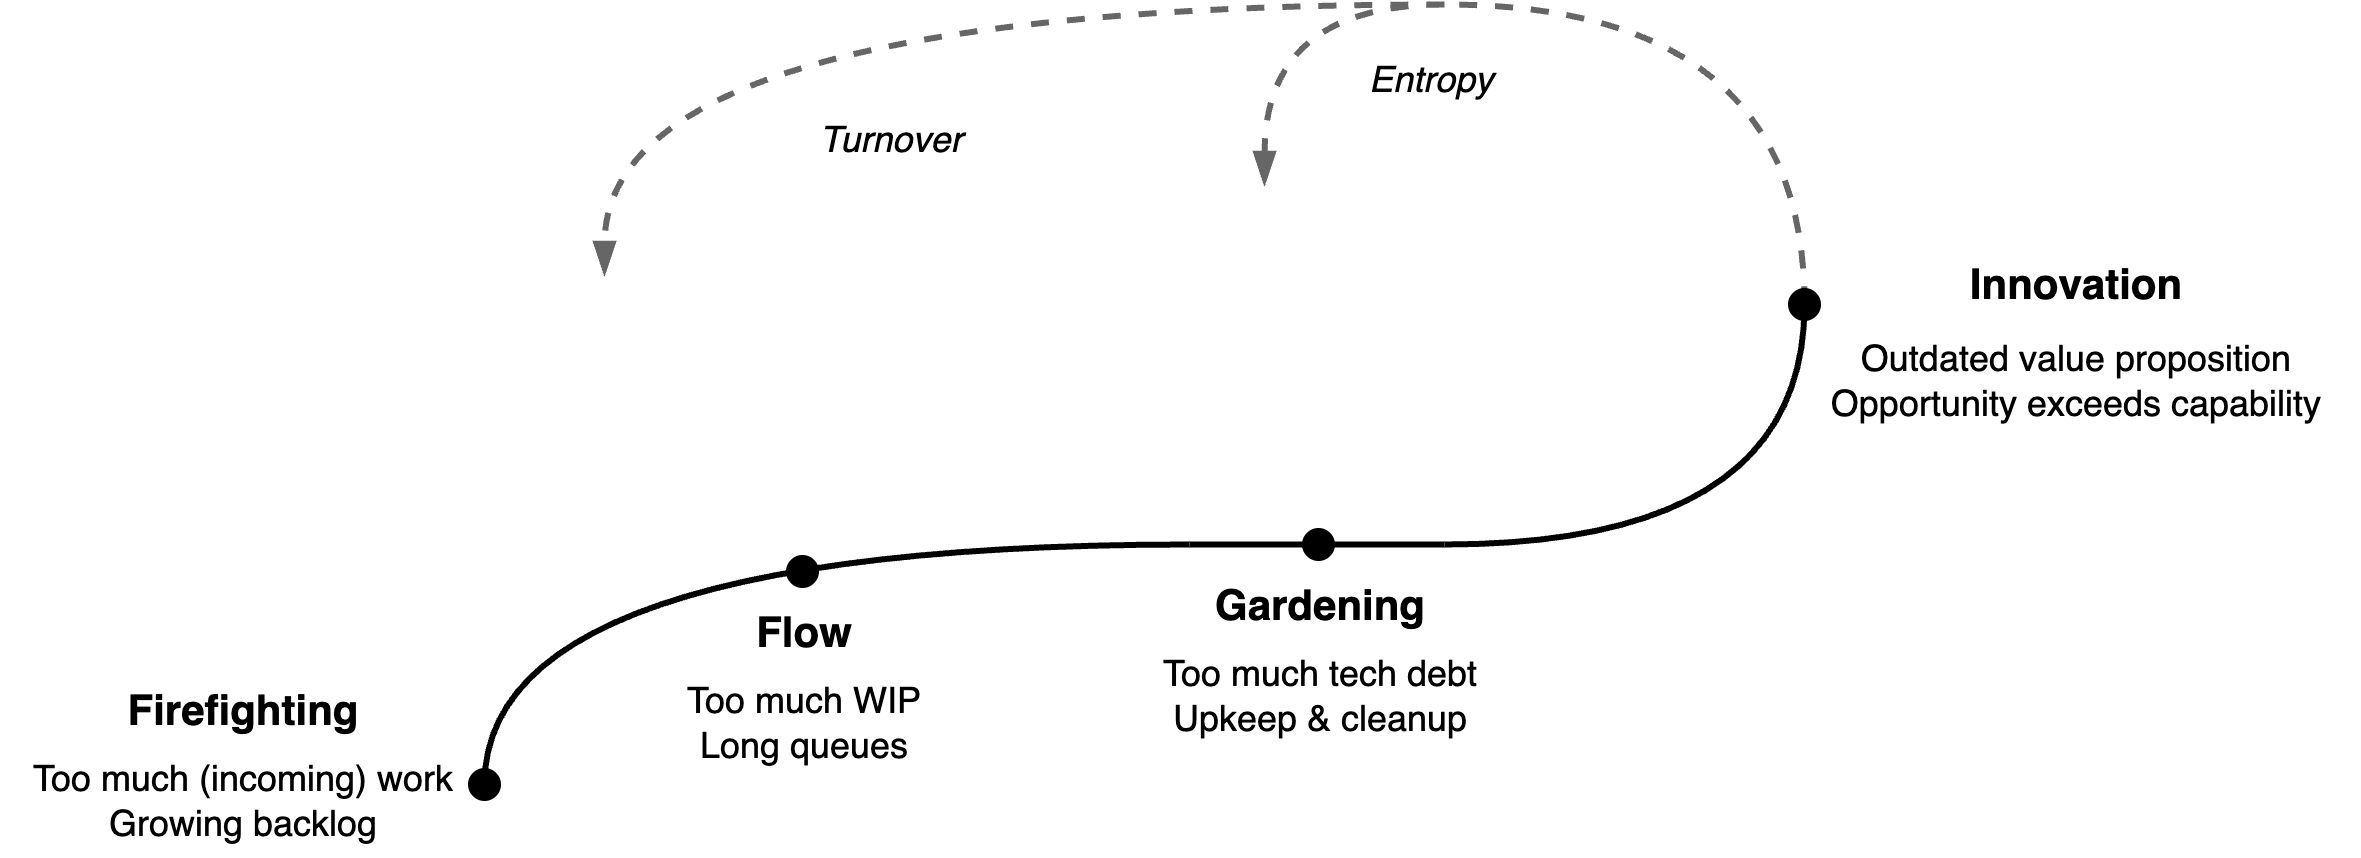
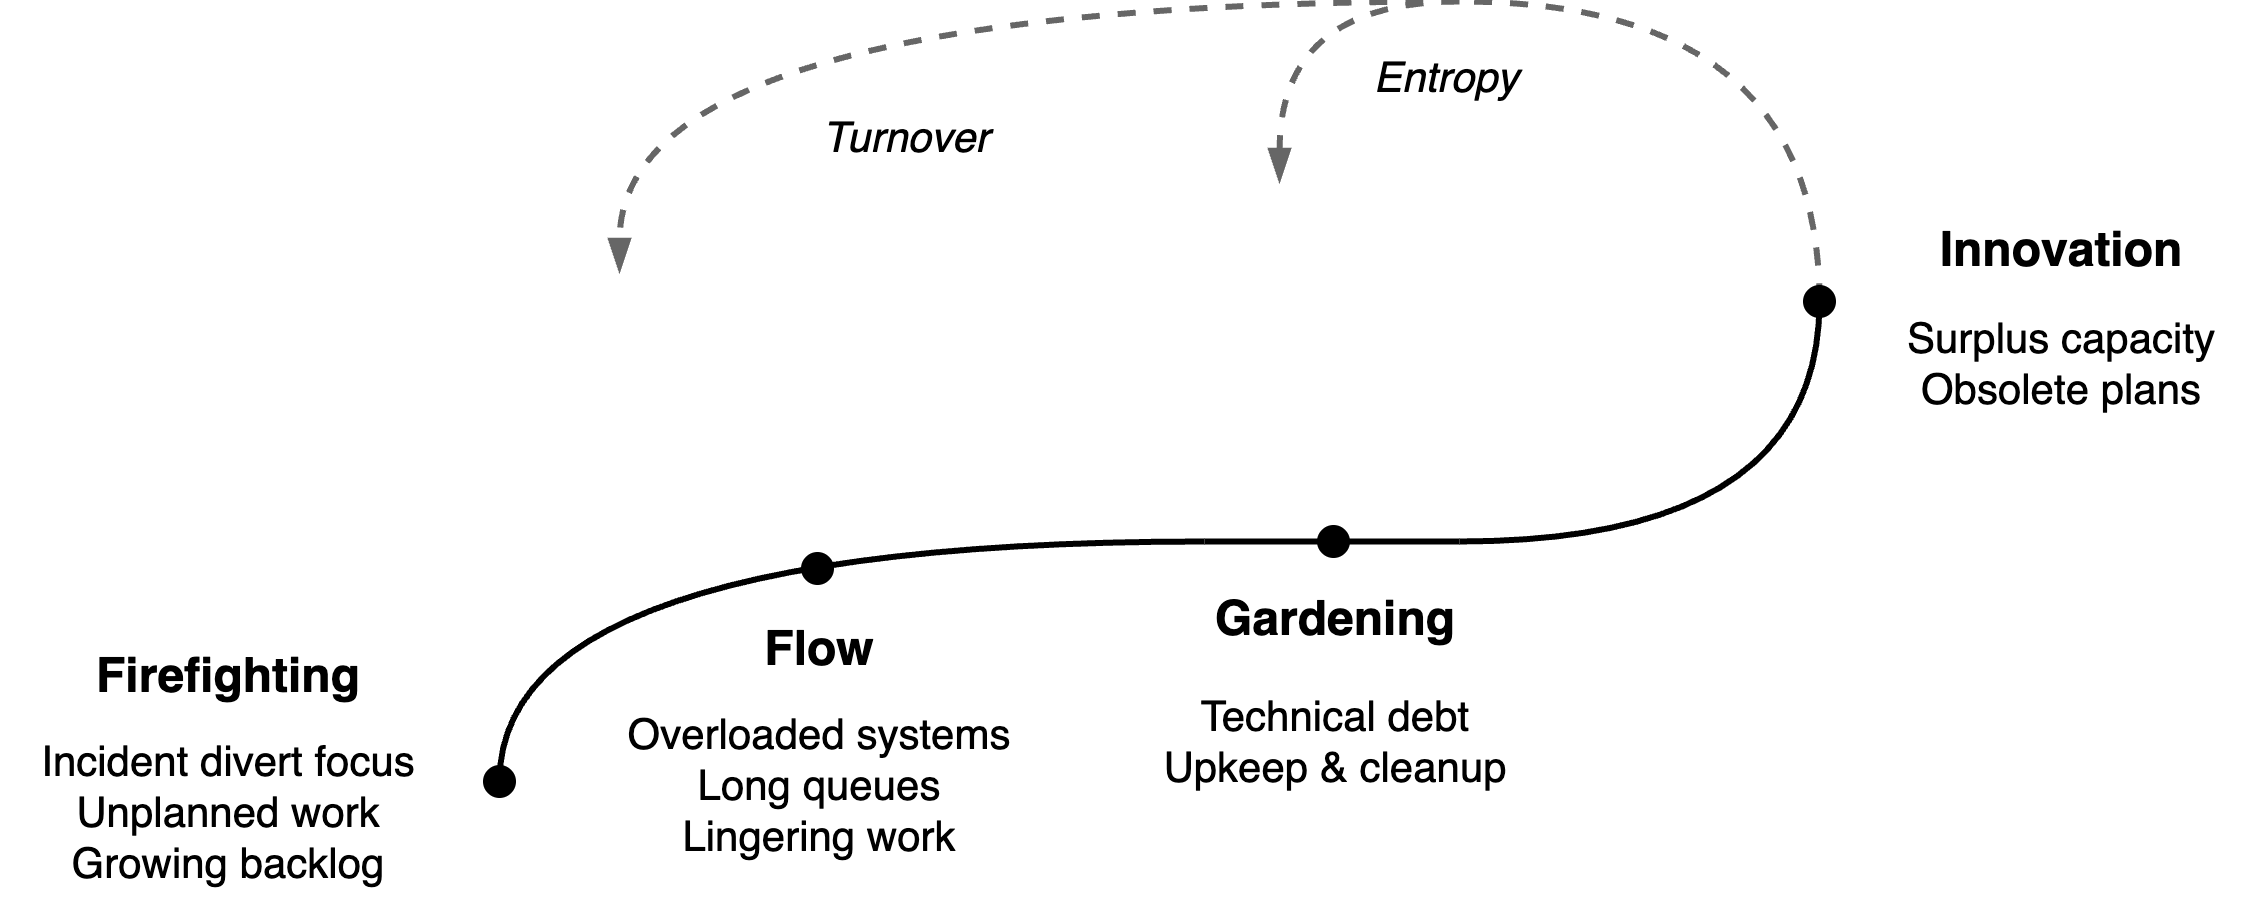
anti

diff --git a/teams/productivity-constraints.md b/teams/productivity-constraints.md
@@ -2,21 +2,21 @@
 
 This is a model for team productivity. It provides insight into dynamics such as stabilization and innovation. See also team [productivity](team-productivity.md) and [success](success.md).
 
-<img src="../img/dragon-productivity-cycle-bg.jpg" alt="dragon-productivity-cycle-bg" style="height:8em;" />
+[<img src="../img/dragon-productivity-cycle-bg.jpg" alt="dragon-productivity-cycle-bg" style="height:8em;" />](retrospective-templates.md#Fiery%20Dragon)
 
 ## Introduction
 
 Teams tend to evolve naturally through periods of instability and growth. Both productivity and value delivery fluctuate throughout these periods. A common approach is to balance the ratio between operations and strategic investment. However, a single ratio provides little control and predictive value. Our model offers a more refined view. It models the progression of productivity as an evolution through distinct challenges, and predicts shifts in priorities and productivity.
 
-<img src="../img/team-productivity-lifecycle.png" alt="team-maturity-lifecycle"/>
+<img src="../img/team-productivity-lifecycle.png" alt="team-productivity-lifecycle" style="max-height:20em;" />
 
 The model is derived from the typical challenges faced by teams. Consider a fire brigade as analogy. Ordered by criticallity: recurring fires, traffic congestions, road detours, slack.
 
-|                | 🔥 Recurring incidents                            | 🚗 Congestion                 | 🚧 Detours                          | 🧯 Slack                                          |
-| -------------- | ------------------------------------------------ | ---------------------------- | ---------------------------------- | ------------------------------------------------ |
-| **Constraint** | Too much work, components breaking down          | Too much WIP                 | Too much tech. debt                | Outdated value proposition, lacking capabilities |
-| **Signals**    | Recurring incidents,skills gaps, growing backlog | Long queues, dependencies    | Complexity / clutter, workarounds. | Ambition / growing potential                     |
-| **Solution**   | Hire more or reduce scope                        | Focus, improve collaboration | Make time                          | Balance expectations                             |
+|                | 🔥 Recurring incidents                                        | 🚗🚗 Congestion                                                | 🚧 Detours                                                    | 🧯 Slack                                                  |
+| -------------- | ------------------------------------------------------------ | ------------------------------------------------------------ | ------------------------------------------------------------ | -------------------------------------------------------- |
+| **Constraint** | Incidents divert focus. Unplanned work. Failing components. Growing backlog. | Too much WIP: unfinished projects, lingering tasks. Overloaded systems. Long queues. | Technical debt. Time lost on upkeep and cleanup. Constant workarounds | Lack of demand for the current capacity. Obsolete plans. |
+| **Signals**    | Recurring incidents,skills gaps, growing backlog             | Long queues, dependencies                                    | Complexity / clutter, workarounds.                           | Ambition / growing potential                             |
+| **Solution**   | Hire more or reduce scope                                    | Focus, improve collaboration                                 | Make time                                                    | Balance expectations                                     |
 
 For each constraint, a team may focus on the following solution.
 
@@ -55,13 +55,4 @@ Another analogy is that of (simulated) [annealing](https://en.wikipedia.org/wiki
 
 Organizations guide productivity by setting a release frequency. Fast releases allow more immediate reactions to competition, at the cost of local performance. The table below shows the result of operational disruptions and release frequency. Read more [here](../labour/release-frequency.md).
 
-<img src="../img/map-constraints-release-frequency.png" alt="map-constraints-release-frequency" style="max-height:25em;" />
-
-Notes
-
-- ⚠ Immediate escalation is a feature, rather than a problem. Proper change management and administration makes it easy to connect to the necessary teams and resolve the issue immediately.
-- 💣 Large releases are a kind of pressure cooker. Errors go unnoticed, until the release date. Then they show up everywhere all at once.
-- ⚙ "BAU" means: manage projects and dependencies. This is *business as usual* in large software organizations that use large release cycles.
-- 📦 Continuous delivery involves *canary deployments*. Releasing changes gradually to user, in order to mitigate the impact of incidents.
-- 🧑🔬 Continuous discovery refers to the discovery of a product/market fit. Automated experiments allow algorithms to be optimized for specific customer segments.
-
+<img src="../img/map-constraints-release-frequency.png" alt="map-constraints-release-frequency" style="max-height:21em;" />

diff --git a/software-industry/anti-agile.md b/software-industry/anti-agile.md
@@ -1,4 +1,10 @@
-# Anti Agile
+# Anti-Agile
+
+This document explores the resistance to Agile ideas. First the implicit difficulties of Agile and second the counter cultures.
+
+[toc]
+
+## Introduction
 
 Agile makes amazing promises about performance, yet non-agile approaches are still widespread. People even attack Agile approaches. What’s happening in the real world? Here's an overview of common the risks and misinterpretations of Agile.
 
@@ -12,4 +18,40 @@ Agile makes amazing promises about performance, yet non-agile approaches are sti
   - This doesn’t match with many commercial, high-stakes environments. Organizations are full of power dynamics, conflicting roles etc. Adopting agile in the wrong corporate culture will backfire.
 - When teams perform well, it seems unnecessary to talk about risks.
 - Large batches feel efficient intuitive. See [release frequency](../labour/release-frequency.md).
+
+
+
+## Anti-Waterfall
+
+Agile can become a counter culture. Opposed to traditions, with minimal structure. The following tables shows typical patterns for leadership culture, (performance) evaluation and project delivery.
+
+### Leadership culture
+
+|                            | Traditional                       | Anti-Waterfall                                   | Pragmatic / Emperical                                |
+| -------------------------- | --------------------------------- | ------------------------------------------------ | ---------------------------------------------------- |
+| **Leader**                 | Being in control / on schedule    | Listen to customers, adapt plans frequently      | Create environment + alignment                       |
+| **Organization Structure** | Strict (matrix)  hierarchy        | Flat, self-managing teams                        | Product and platform teams                           |
+| **Philosophy**             | Pressure drives performance       | Happy developers yield happy customers           | Incentives drive behaviour                           |
+| **Accountability**         | Leader > subordinates             | Collective ownership > individual accountability | Attribute success to team, failure to leaders        |
+| **Success**                | Finished projects are celebrated  | Finished sprints are celebrated                  | Performance is tracked by leading + lagging metrics. |
+| **Failure**                | Blame culture, find rotten apples | Blameless culture                                | Strict on process, lenient on mistakes.              |
+
+### Evaluation
+
+|                           | Traditional                                           | Anti-Waterfall                                         | Pragmatic / Emperical                   |
+| ------------------------- | ----------------------------------------------------- | ------------------------------------------------------ | --------------------------------------- |
+| **Performance Reviews**   | Output theater. Handoffs = blame game.                | Agile theater. JIRA = value.                           | Evaluation based on pre-defined metrics |
+| **Status updates**        | Polished updates mask reality                         | Stand-up theater. Retrospectives focus on inclusivity. | Address team health and performance.    |
+| **Risk Management**       | Risks are downplayed, until they become an emergency. | Risks are discussed  thoroughly                        | Risks are input for validation          |
+| **Organizational Memory** | Archive culture                                       | Conversations >  documentation                         | Writing culture                         |
+
+### Delivery
+
+|                | Traditional                      | Anti-Waterfall                                 | Pragmatic / Emperical                                        |
+| -------------- | -------------------------------- | ---------------------------------------------- | ------------------------------------------------------------ |
+| **Methodoloy** | Big releases based on vision     | Experiment-driven. Build-measure-learn cycles. | Balance persistent strategies with experimental learning     |
+| **Philosophy** | More people → more output        | Maximize stories per sprint                    | Less WIP → more speed                                        |
+| **Planning**   | Top-down project planning        | Demand drives short-term planning.             | Top-down guidelines, strategic goals.                        |
+| **Adapting**   | Resist change, downplay feedback | Over-pivot                                     | Validated learning to adjust course. Deliberate adaptation guided by outcomes. |
+
 

diff --git a/management/anti-management.md b/management/anti-management.md
@@ -1,32 +1,39 @@
 # Secret Management Principles
 
-There are countless management theories, but most managers follow their own principles. In practice, many decisions are biassed by emotions and politics. This document lists a few secret principles, that most managers will not belief. In practice, these principles will usually be violated. See also [anti Agile](../software-engineering/anti-agile.md).
+There are countless management theories, but most managers follow their own principles. In practice, many decisions are biassed by emotions and politics. This document lists a few secret principles, that most managers will not belief. In practice, these principles will usually be violated. See also [anti-Agile](../software-engineering/anti-agile.md).
 
 
 
 Delivery
 
-- Deliverables force accountability. Handovers break accountability. Larger batches increase complexity.
+- Deliverables create accountability. Handovers break accountability. 
+
+- Larger batches = larger handovers. Larger batches increase complexity.
 - Inventory is waste, not value. Progress on deliverables > internal progress.
 - Releasing frequently reduces incidents.
 
 Validation
 
-- Skipping validation is efficient, until it isn’t.  Implicit assumptions = rework.
-- Failing early is cheap. Releasing more pilots decreases cost.
-- An MVP does not have to be usable.
+- Skipping validation is efficient, until it isn’t.  Implicit assumptions = rework. Releasing more pilots decreases cost
+- Failing early is cheap. An MVP does not have to be usable.
+- Experiments require hypotheses. Postponing a decision ≠ running and experiment.
+- Most decisions are made on the basis of intuition, not facts.
+- Accountability requires accounting. No feedback = no accountability.
+- Can it be built? → Should it be built?
 
 Optics & confidence
 
 - Overwhelmed managers chase silver bullets.
 - The more afraid the manager, the less room for uncertainty.
 - Numbers lie. You can make data say anything.
+- Metrics are people, too.
 - Big words hide small thinking. Big words are impressive. 
 
 Optimization
 
 - Local optima differ from global optima.
 - Optimizing utilization reduces performance.
+- Sabotage kills companies.
 
 
 
@@ -36,3 +43,10 @@ And some negations.
 - Larger team ≠ impact
 - Titles ≠ impact
 - Authority ≠ truth
+
+
+
+
+
+
+

diff --git a/labour/release-frequency.md b/labour/release-frequency.md
@@ -16,7 +16,7 @@ There are various downsides to larger batch sizes.
 - **Incident response:** Long release cycles make it difficult to react to incidents. Urgent patches must be shipped as [hotfixes](https://en.wikipedia.org/wiki/Hotfix), which increases both risk and rework.
 - **Incentive to delay:** Longer cycles encourage teams to postpone releases, waiting to include "just one more feature" rather than shipping now.
 
-## Productivity Constraints
+## Production Constraints
 
 Teams evolve over time. The table below shows the result of operational disruptions and release frequency. See [productivity constraints](../teams/productivity-constraints.md). 
 
@@ -29,4 +29,24 @@ Notes
 - ⚙ "BAU" means: manage projects and dependencies. This is *business as usual* in large software organizations that use large release cycles.
 - 📦 Continuous delivery involves *canary deployments*. Releasing changes gradually to user, in order to mitigate the impact of incidents.
 - 🧑🔬 Continuous discovery refers to the discovery of a product/market fit. Automated experiments allow algorithms to be optimized for specific customer segments.
+
+### Agile and Waterfall Projects
+
+Watefall-type projects start with full requirements. Development and testing happens afterwards, in sequence. Agile approaches start earlier. Initially with (functional) testing and later with incremental improvements.
+
+|                     | Waterfall                 | Agile                   |
+| ------------------- | ------------------------- | ----------------------- |
+| **Optimize for**    | Throughput (output)       | Market fit (outcome)    |
+| **Scope**           | Requirements drive design | Discovery drives design |
+| **Decision making** | Theoretical (top-down)    | Empirical               |
+| **Testing**         | Eventually                | Continuously            |
+| **Worst case**      | Project fails             | Project is insufficient |
+
+This graph shows the granularity of increment verses the development stages. The steepness of the line is associated with risk apetite.
+
+![project-increments-method](../img/project-increments-method.png)
+
+For software projects the increments follow a typical form.
+
+![project-increments-iterations](../img/project-increments-iterations.png)
 

diff --git a/software-industry/agile.md b/software-industry/agile.md
@@ -62,26 +62,9 @@ Agile is associated with:
 
 ## Delivery
 
-See [delivery](../legacy/realization.md).
+See [delivery](../legacy/realization.md) and [release frequency](../labour/release-frequency.md).
 
-<img src="../img/production-outcome.png" alt="production-outcome" style="height:6em;" />
+<img src="../img/production-outcome.png" alt="production-outcome" style="max-height:6em;" />
 
-### Agile and Waterfall Projects
+<img src="../img/project-increments-method.png" alt="project-increments-method" style="max-height:18em;" />
 
-Watefall-type projects start with full requirements. Development and testing happens afterwards, in sequence. Agile approaches start earlier with (functional) testing and then improve the design in increments.
-
-|                     | Waterfall                 | Agile                   |
-| ------------------- | ------------------------- | ----------------------- |
-| **Optimize for**    | Throughput (output)       | Market fit (outcome)    |
-| **Scope**           | Requirements drive design | Discovery drives design |
-| **Decision making** | Theoretical (top-down)    | Empirical               |
-| **Testing**         | Eventually                | Continuously            |
-| **Worst case**      | Project fails             | Project is insufficient |
-
-This graph shows the granularity of increment verses the development stages. The steepness of the line is associated with risk apetite.
-
-![project-increments-method](../img/project-increments-method.png)
-
-For software projects the increments follow a typical form.
-
-![project-increments-iterations](../img/project-increments-iterations.png)

diff --git a/alignment/alignment.md b/alignment/alignment.md
@@ -61,9 +61,9 @@ Guidance requires a different perspective than control. It's rooted in acceptanc
 
 <img src="../img/venn-people-projects-capability.png" alt="venn-people-projects-capability" style="height:18em;" />
 
-## Abstractions
 
-Abstractions decouple strategy from execution. This provides flexibility and protect a manager from being overwhelmed by operational details. See also [goals](./goals.md).
+
+**Abstractions** decouple strategy from execution. This provides flexibility and protect a manager from being overwhelmed by operational details. See also [goals](./goals.md) and [vision and strategy](./vision-strategy.md).
 
 - The world of **strategy** focusses on vision, alignment, and systems.
 
@@ -71,7 +71,7 @@ Abstractions decouple strategy from execution. This provides flexibility and pro
 
 <img src="../img/strategy-operations.png" alt="strategy-operations" style="width:70%;" />
 
-See [vision and strategy](./vision-strategy.md).
+
 
 ## Conflicts
 

diff --git a/alignment/vision-strategy.md b/alignment/vision-strategy.md
@@ -2,6 +2,8 @@
 
 Most of the concepts surrounding strategy emerge from collaboration and experience. For brevity, we focus on the artefacs of such work: vision and strategy documents. It excludes *adaption* them.
 
+- These ideas work for organizations with a *writing culture*. A focus on living documents over artifacts and sign-off forms.
+
 ## Overview
 
 Consider the following artifacts.
